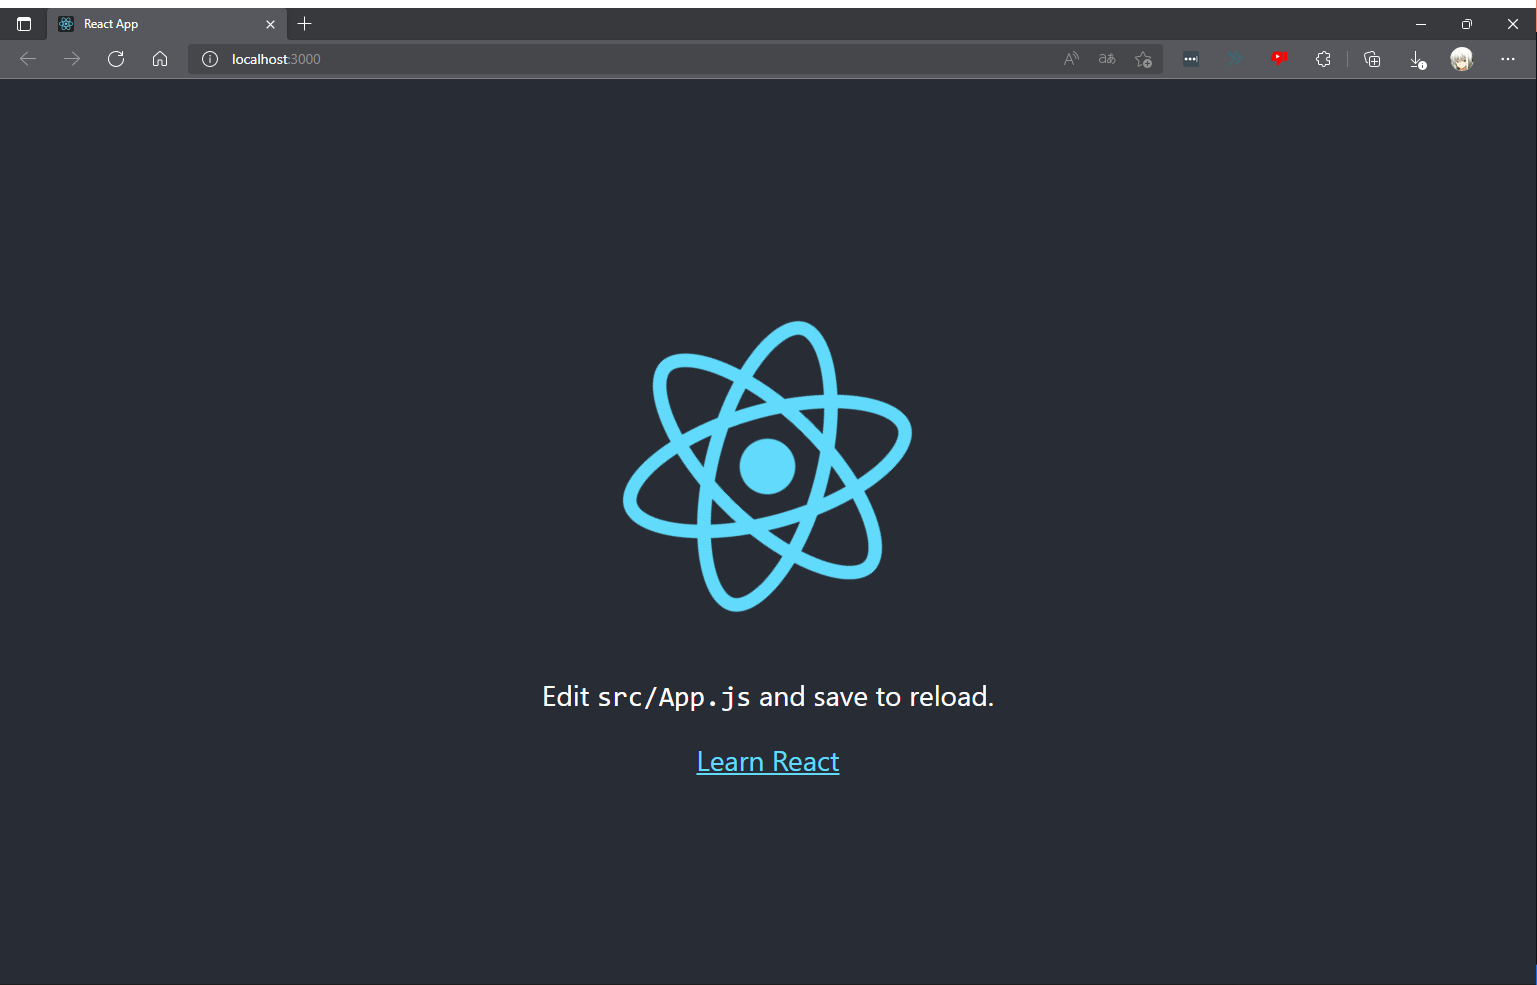
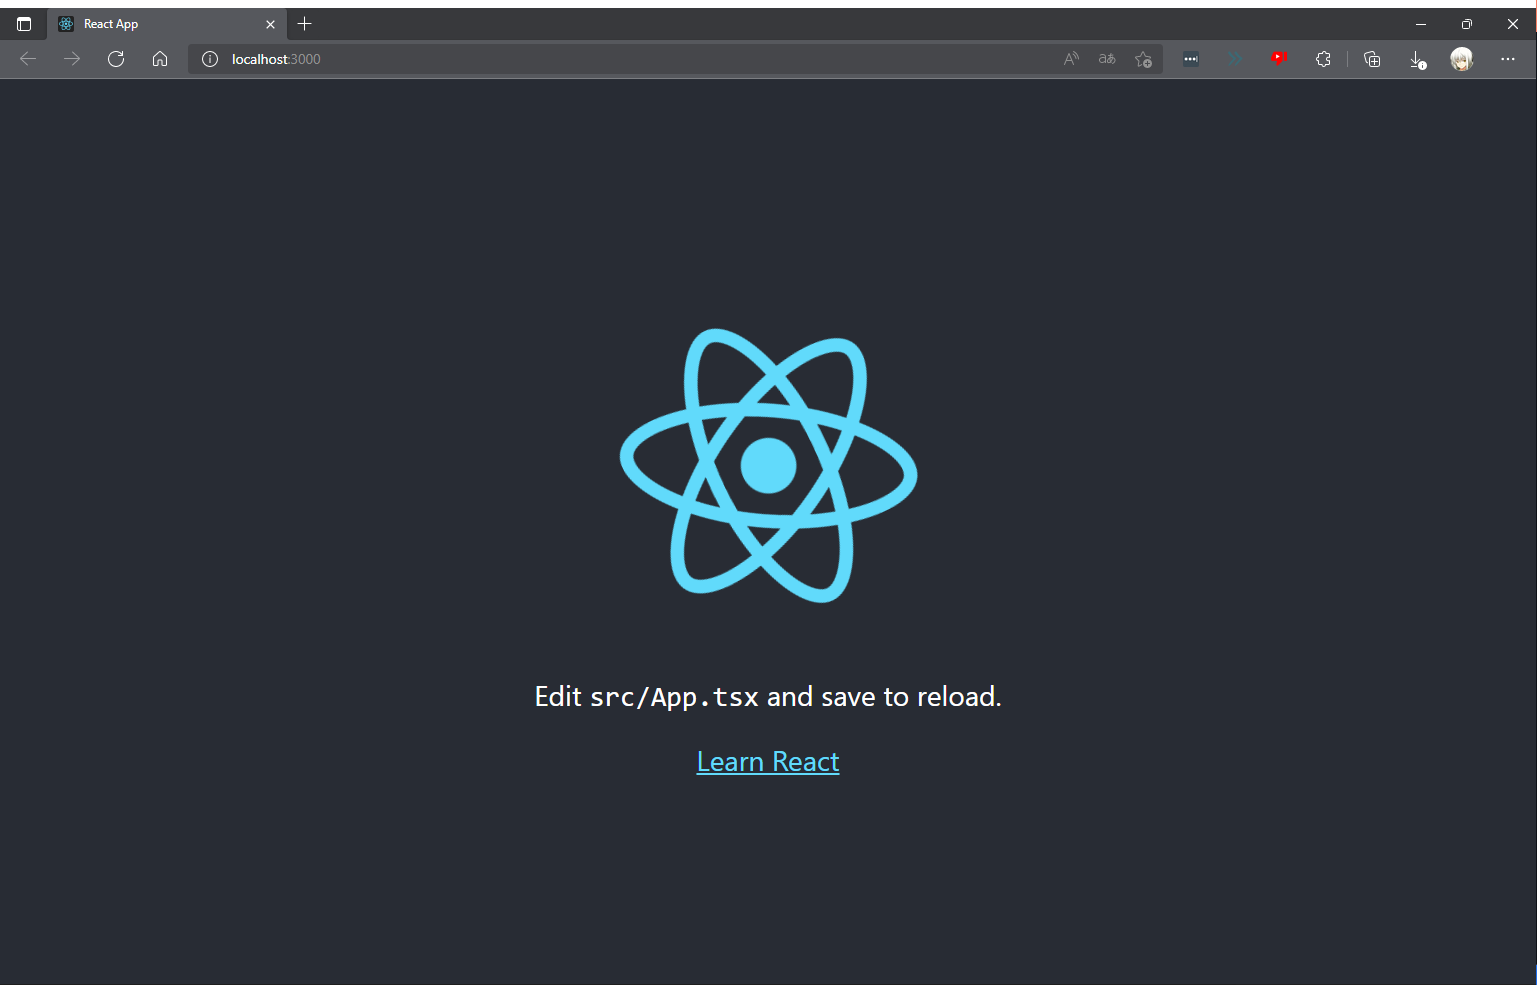
change ts

Changed region(s): [[0.406, 0.3046, 0.5934, 0.6396], [0.3435, 0.7005, 0.6558, 0.731]]

diff --git a/frontend/src/App.tsx b/frontend/src/App.tsx
@@ -1,3 +1,4 @@
+import React from 'react';
 import logo from './logo.svg';
 import './App.css';
 
@@ -7,7 +8,7 @@ function App() {
       <header className="App-header">
         <img src={logo} className="App-logo" alt="logo" />
         <p>
-          Edit <code>src/App.js</code> and save to reload.
+          Edit <code>src/App.tsx</code> and save to reload.
         </p>
         <a
           className="App-link"

diff --git a/frontend/src/reportWebVitals.ts b/frontend/src/reportWebVitals.ts
@@ -1,4 +1,6 @@
-const reportWebVitals = onPerfEntry => {
+import { ReportHandler } from 'web-vitals';
+
+const reportWebVitals = (onPerfEntry?: ReportHandler) => {
   if (onPerfEntry && onPerfEntry instanceof Function) {
     import('web-vitals').then(({ getCLS, getFID, getFCP, getLCP, getTTFB }) => {
       getCLS(onPerfEntry);

diff --git a/frontend/src/App.test.tsx b/frontend/src/App.test.tsx
@@ -1,3 +1,4 @@
+import React from 'react';
 import { render, screen } from '@testing-library/react';
 import App from './App';
 

diff --git a/frontend/src/react-app-env.d.ts b/frontend/src/react-app-env.d.ts
@@ -1,0 +1,1 @@
+/// <reference types="react-scripts" />

diff --git a/frontend/README.md b/frontend/README.md
@@ -1,0 +1,46 @@
+# Getting Started with Create React App
+
+This project was bootstrapped with [Create React App](https://github.com/facebook/create-react-app).
+
+## Available Scripts
+
+In the project directory, you can run:
+
+### `npm start`
+
+Runs the app in the development mode.\
+Open [http://localhost:3000](http://localhost:3000) to view it in the browser.
+
+The page will reload if you make edits.\
+You will also see any lint errors in the console.
+
+### `npm test`
+
+Launches the test runner in the interactive watch mode.\
+See the section about [running tests](https://facebook.github.io/create-react-app/docs/running-tests) for more information.
+
+### `npm run build`
+
+Builds the app for production to the `build` folder.\
+It correctly bundles React in production mode and optimizes the build for the best performance.
+
+The build is minified and the filenames include the hashes.\
+Your app is ready to be deployed!
+
+See the section about [deployment](https://facebook.github.io/create-react-app/docs/deployment) for more information.
+
+### `npm run eject`
+
+**Note: this is a one-way operation. Once you `eject`, you can’t go back!**
+
+If you aren’t satisfied with the build tool and configuration choices, you can `eject` at any time. This command will remove the single build dependency from your project.
+
+Instead, it will copy all the configuration files and the transitive dependencies (webpack, Babel, ESLint, etc) right into your project so you have full control over them. All of the commands except `eject` will still work, but they will point to the copied scripts so you can tweak them. At this point you’re on your own.
+
+You don’t have to ever use `eject`. The curated feature set is suitable for small and middle deployments, and you shouldn’t feel obligated to use this feature. However we understand that this tool wouldn’t be useful if you couldn’t customize it when you are ready for it.
+
+## Learn More
+
+You can learn more in the [Create React App documentation](https://facebook.github.io/create-react-app/docs/getting-started).
+
+To learn React, check out the [React documentation](https://reactjs.org/).

diff --git a/README.md b/README.md
@@ -307,7 +307,7 @@ urlpatterns = [
 ## インストール
 
 ```powershell
-npx create-react-app my-app
+\> npx create-react-app --template typescript frontend
 ```
 
 # 開発環境
